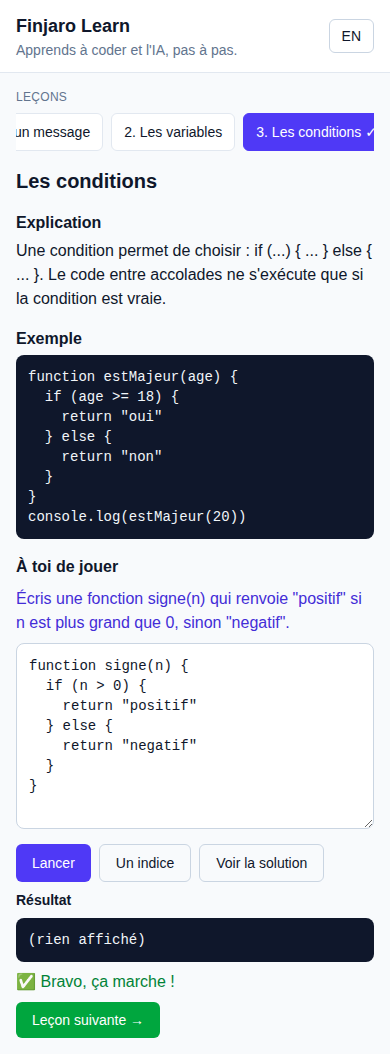
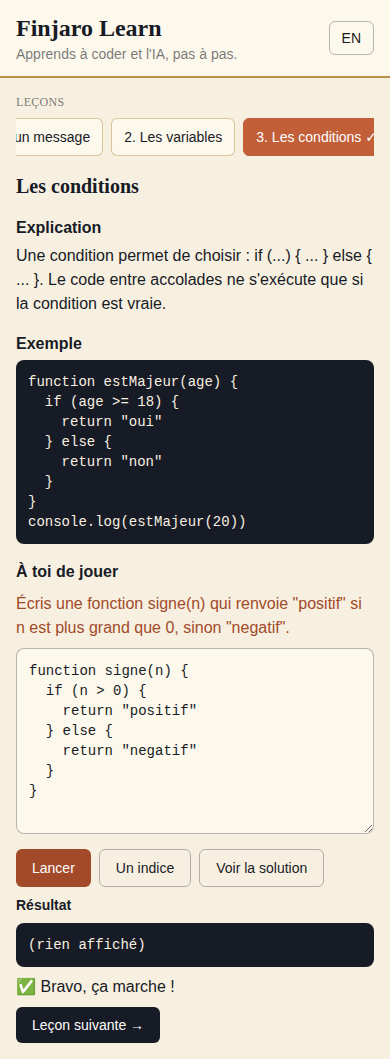
Thème Finjaro vintage : crème, terracotta, laiton, titres Fraunces
Claude-Session: https://claude.ai/code/session_01KUV2Kc8dHXWQLfgiLA7ce5

diff --git a/src/App.tsx b/src/App.tsx
@@ -3,7 +3,7 @@ import { ui, type Lang } from './i18n'
 import { lessons } from './lessons'
 import { runCode, type RunResult } from './runner'
 
-const pre = 'rounded-lg bg-slate-900 text-slate-100 p-3 text-sm overflow-x-auto whitespace-pre-wrap font-mono'
+const pre = 'rounded-lg bg-ink text-cream p-3 text-sm overflow-x-auto whitespace-pre-wrap font-mono'
 
 function getLang(): Lang {
   try {
@@ -49,14 +49,14 @@ export default function App() {
 
   return (
     <div className="min-h-screen">
-      <header className="bg-white border-b border-slate-200">
+      <header className="bg-paper border-b-2 border-brass">
         <div className="max-w-5xl mx-auto px-4 py-3 flex items-center justify-between gap-3">
           <div>
-            <h1 className="font-bold text-lg">Finjaro Learn</h1>
-            <p className="text-sm text-slate-500">{t.tagline}</p>
+            <h1 className="font-bold text-2xl">Finjaro Learn</h1>
+            <p className="text-sm text-ink/60">{t.tagline}</p>
           </div>
           <button
-            className="text-sm border border-slate-300 rounded-md px-3 py-1.5"
+            className="text-sm border border-ink/30 rounded-md px-3 py-1.5"
             onClick={() => { const l = lang === 'fr' ? 'en' : 'fr'; setLang(l); save('lang', l) }}
           >
             {lang === 'fr' ? 'EN' : 'FR'}
@@ -66,14 +66,14 @@ export default function App() {
 
       <div className="max-w-5xl mx-auto px-4 py-4 grid gap-4 md:grid-cols-[220px_1fr]">
         <nav aria-label={t.lessons}>
-          <h2 className="text-xs uppercase tracking-wide text-slate-500 mb-2">{t.lessons}</h2>
+          <h2 className="text-xs uppercase tracking-wide text-ink/60 mb-2">{t.lessons}</h2>
           <ol className="flex md:flex-col gap-2 overflow-x-auto">
             {lessons.map((l, i) => (
               <li key={l.id} className="shrink-0">
                 <button
                   onClick={() => go(i)}
                   className={`w-full text-left rounded-md px-3 py-2 text-sm border ${
-                    i === idx ? 'bg-indigo-600 text-white border-indigo-600' : 'bg-white border-slate-200'
+                    i === idx ? 'bg-terracotta text-white border-terracotta' : 'bg-paper border-brass/50'
                   }`}
                 >
                   {i + 1}. {l.title[lang]} {done.includes(l.id) && <span aria-label={t.done}>✓</span>}
@@ -95,7 +95,7 @@ export default function App() {
           </section>
           <section className="space-y-2">
             <h3 className="font-semibold">{t.exercise}</h3>
-            <p className="font-medium text-indigo-700">{lesson.task[lang]}</p>
+            <p className="font-medium text-terracotta-dark">{lesson.task[lang]}</p>
             <textarea
               value={code}
               onChange={(e) => { setCode(e.target.value); save('code:' + lesson.id, e.target.value) }}
@@ -103,33 +103,33 @@ export default function App() {
               autoCapitalize="off"
               autoCorrect="off"
               rows={8}
-              className="w-full rounded-lg border border-slate-300 bg-white p-3 font-mono text-sm"
+              className="w-full rounded-lg border border-ink/30 bg-paper p-3 font-mono text-sm"
               aria-label={t.exercise}
             />
             <div className="flex flex-wrap gap-2">
-              <button onClick={run} className="bg-indigo-600 text-white rounded-md px-4 py-2 text-sm font-medium">
+              <button onClick={run} className="bg-terracotta hover:bg-terracotta-dark text-white rounded-md px-4 py-2 text-sm font-medium">
                 {t.run}
               </button>
-              <button onClick={() => setShowHint(true)} className="border border-slate-300 rounded-md px-4 py-2 text-sm">
+              <button onClick={() => setShowHint(true)} className="border border-ink/30 rounded-md px-4 py-2 text-sm">
                 {t.hint}
               </button>
               <button
                 onClick={() => { setCode(lesson.solution); save('code:' + lesson.id, lesson.solution) }}
-                className="border border-slate-300 rounded-md px-4 py-2 text-sm"
+                className="border border-ink/30 rounded-md px-4 py-2 text-sm"
               >
                 {t.solution}
               </button>
             </div>
-            {showHint && <p className="rounded-md bg-amber-50 border border-amber-200 p-3 text-sm">💡 {lesson.hint[lang]}</p>}
+            {showHint && <p className="rounded-md bg-brass/15 border border-brass p-3 text-sm">💡 {lesson.hint[lang]}</p>}
             {res && (
               <div className="space-y-2" aria-live="polite">
                 <h4 className="text-sm font-semibold">{t.output}</h4>
                 <pre className={pre}>{res.output.length ? res.output.join('\n') : t.noOutput}</pre>
-                {res.error && <p className="text-red-700 text-sm">{t.error} {res.error}</p>}
-                {res.passed === true && <p className="text-green-700 font-medium">✅ {t.ok}</p>}
-                {res.passed === false && !res.error && <p className="text-amber-700">{t.ko}</p>}
+                {res.error && <p className="text-terracotta-dark text-sm">{t.error} {res.error}</p>}
+                {res.passed === true && <p className="text-ink font-medium">✅ {t.ok}</p>}
+                {res.passed === false && !res.error && <p className="text-terracotta-dark">{t.ko}</p>}
                 {res.passed && idx < lessons.length - 1 && (
-                  <button onClick={() => go(idx + 1)} className="bg-green-600 text-white rounded-md px-4 py-2 text-sm font-medium">
+                  <button onClick={() => go(idx + 1)} className="bg-ink text-white rounded-md px-4 py-2 text-sm font-medium">
                     {t.next} →
                   </button>
                 )}

diff --git a/src/index.css b/src/index.css
@@ -1,3 +1,15 @@
+@import url("https://fonts.googleapis.com/css2?family=Fraunces:opsz,wght@9..144,600;9..144,700&display=swap");
 @import "tailwindcss";
 
-body { @apply bg-slate-50 text-slate-900 antialiased; }
+@theme {
+  --color-cream: #f7f0e1;
+  --color-paper: #fdf8ec;
+  --color-ink: #171b26;
+  --color-terracotta: #c25e38;
+  --color-terracotta-dark: #a24a29;
+  --color-brass: #b8924a;
+  --font-serif: "Fraunces", Georgia, serif;
+}
+
+body { @apply bg-cream text-ink antialiased; }
+h1, h2 { font-family: var(--font-serif); }

diff --git a/docs/COORDINATION.md b/docs/COORDINATION.md
@@ -9,3 +9,4 @@ messages directs (create_trigger vers la session concernée).
 | 01/10 | Learn → Alpha | Plan posé (docs/PLAN.md). J1 livré, sans base. Demandé à Alpha (J2) : migration `learn_progress`, fonction `learn-tutor`, Redirect URL `https://learn.finjaro.net/**`. Rien fait avant son feu vert. |
 | 01/10 | Alpha → Learn | Feu orange : préparer sans appliquer. Fait : `supabase/migrations/20261001120000_learn_progress.sql` (learn_progress + learn_tutor_usage + RPC `learn_tutor_consume`, RLS, pas d'anon) et `supabase/functions/learn-tutor/` (JWT obligatoire, 60 appels/jour, entrées bornées, GEMINI_API_KEY côté serveur). Rien appliqué ni déployé. Attente relecture d'Alpha + oui de Beau. |
 | 01/10 | Alpha → Learn | Relecture dc7af96 : 5 corrections (thinkingBudget 0 + réponse vide = erreur, timeout 25 s → 504, limite 60 en dur dans le SQL, verify_jwt dans supabase/config.toml, CORS restreint). Appliquées, rien déployé. |
+| 01/10 | Learn | Thème Finjaro vintage appliqué (crème, terracotta #C25E38, laiton, encre #171B26, titres Fraunces). Captures 390/1440 refaites. |
